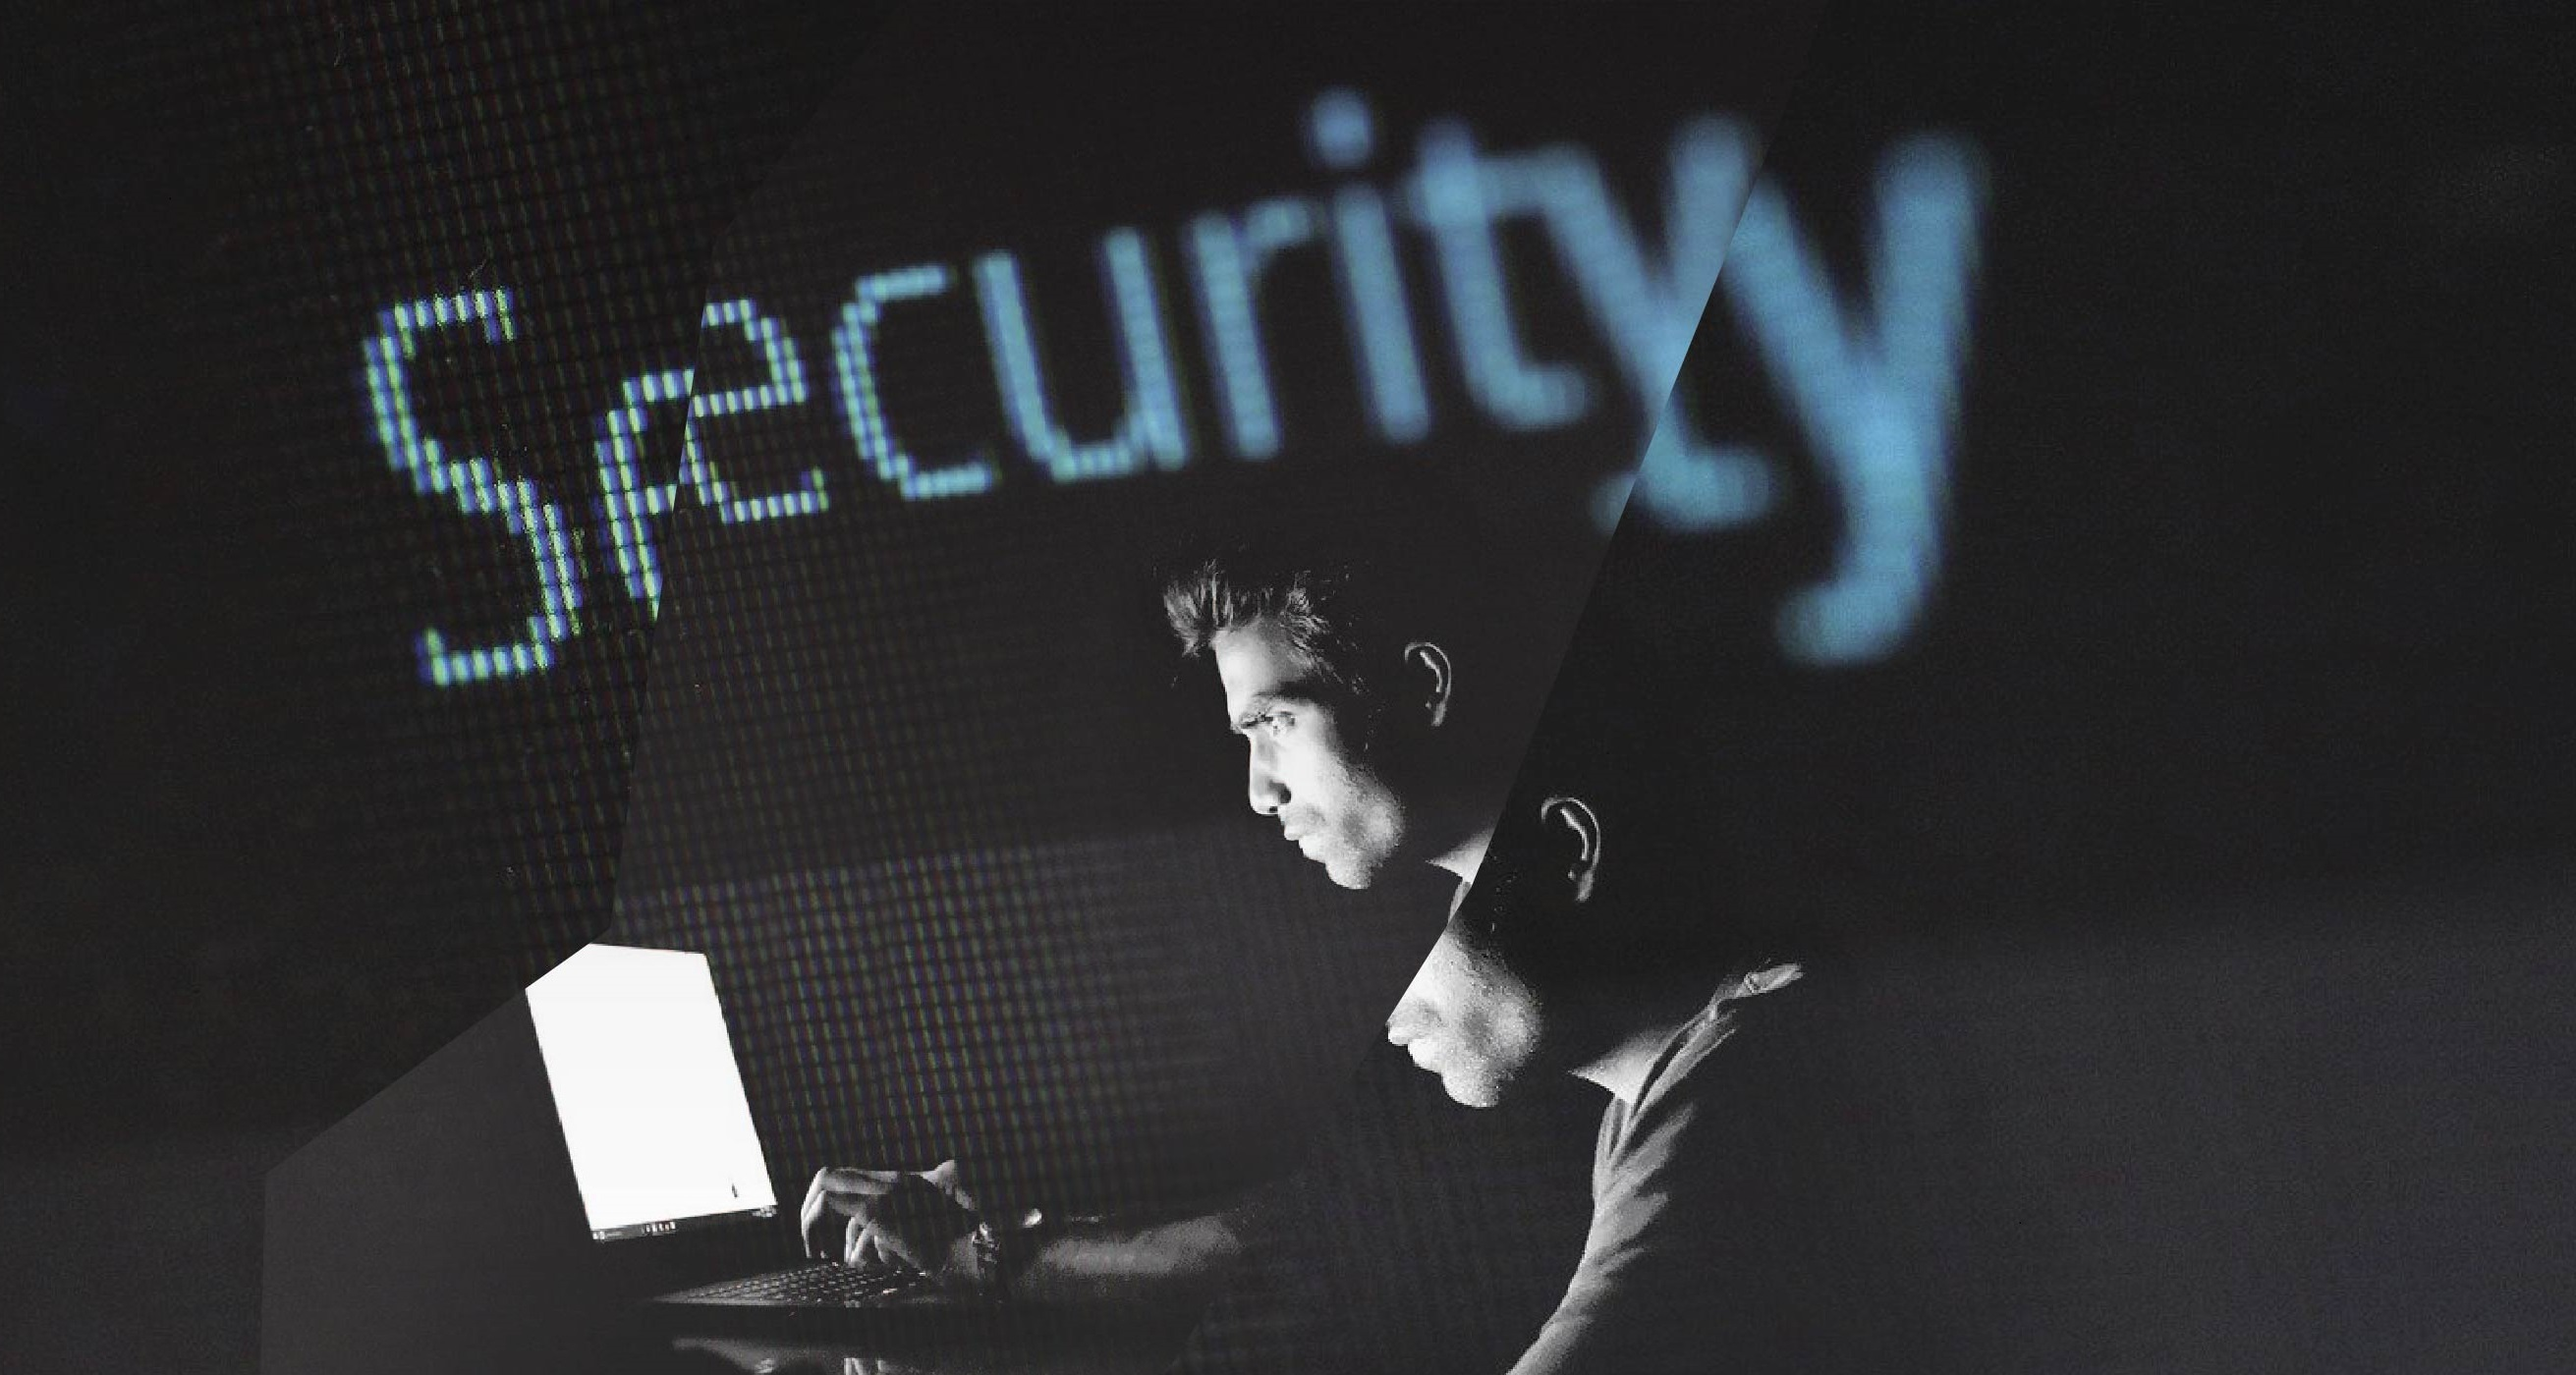
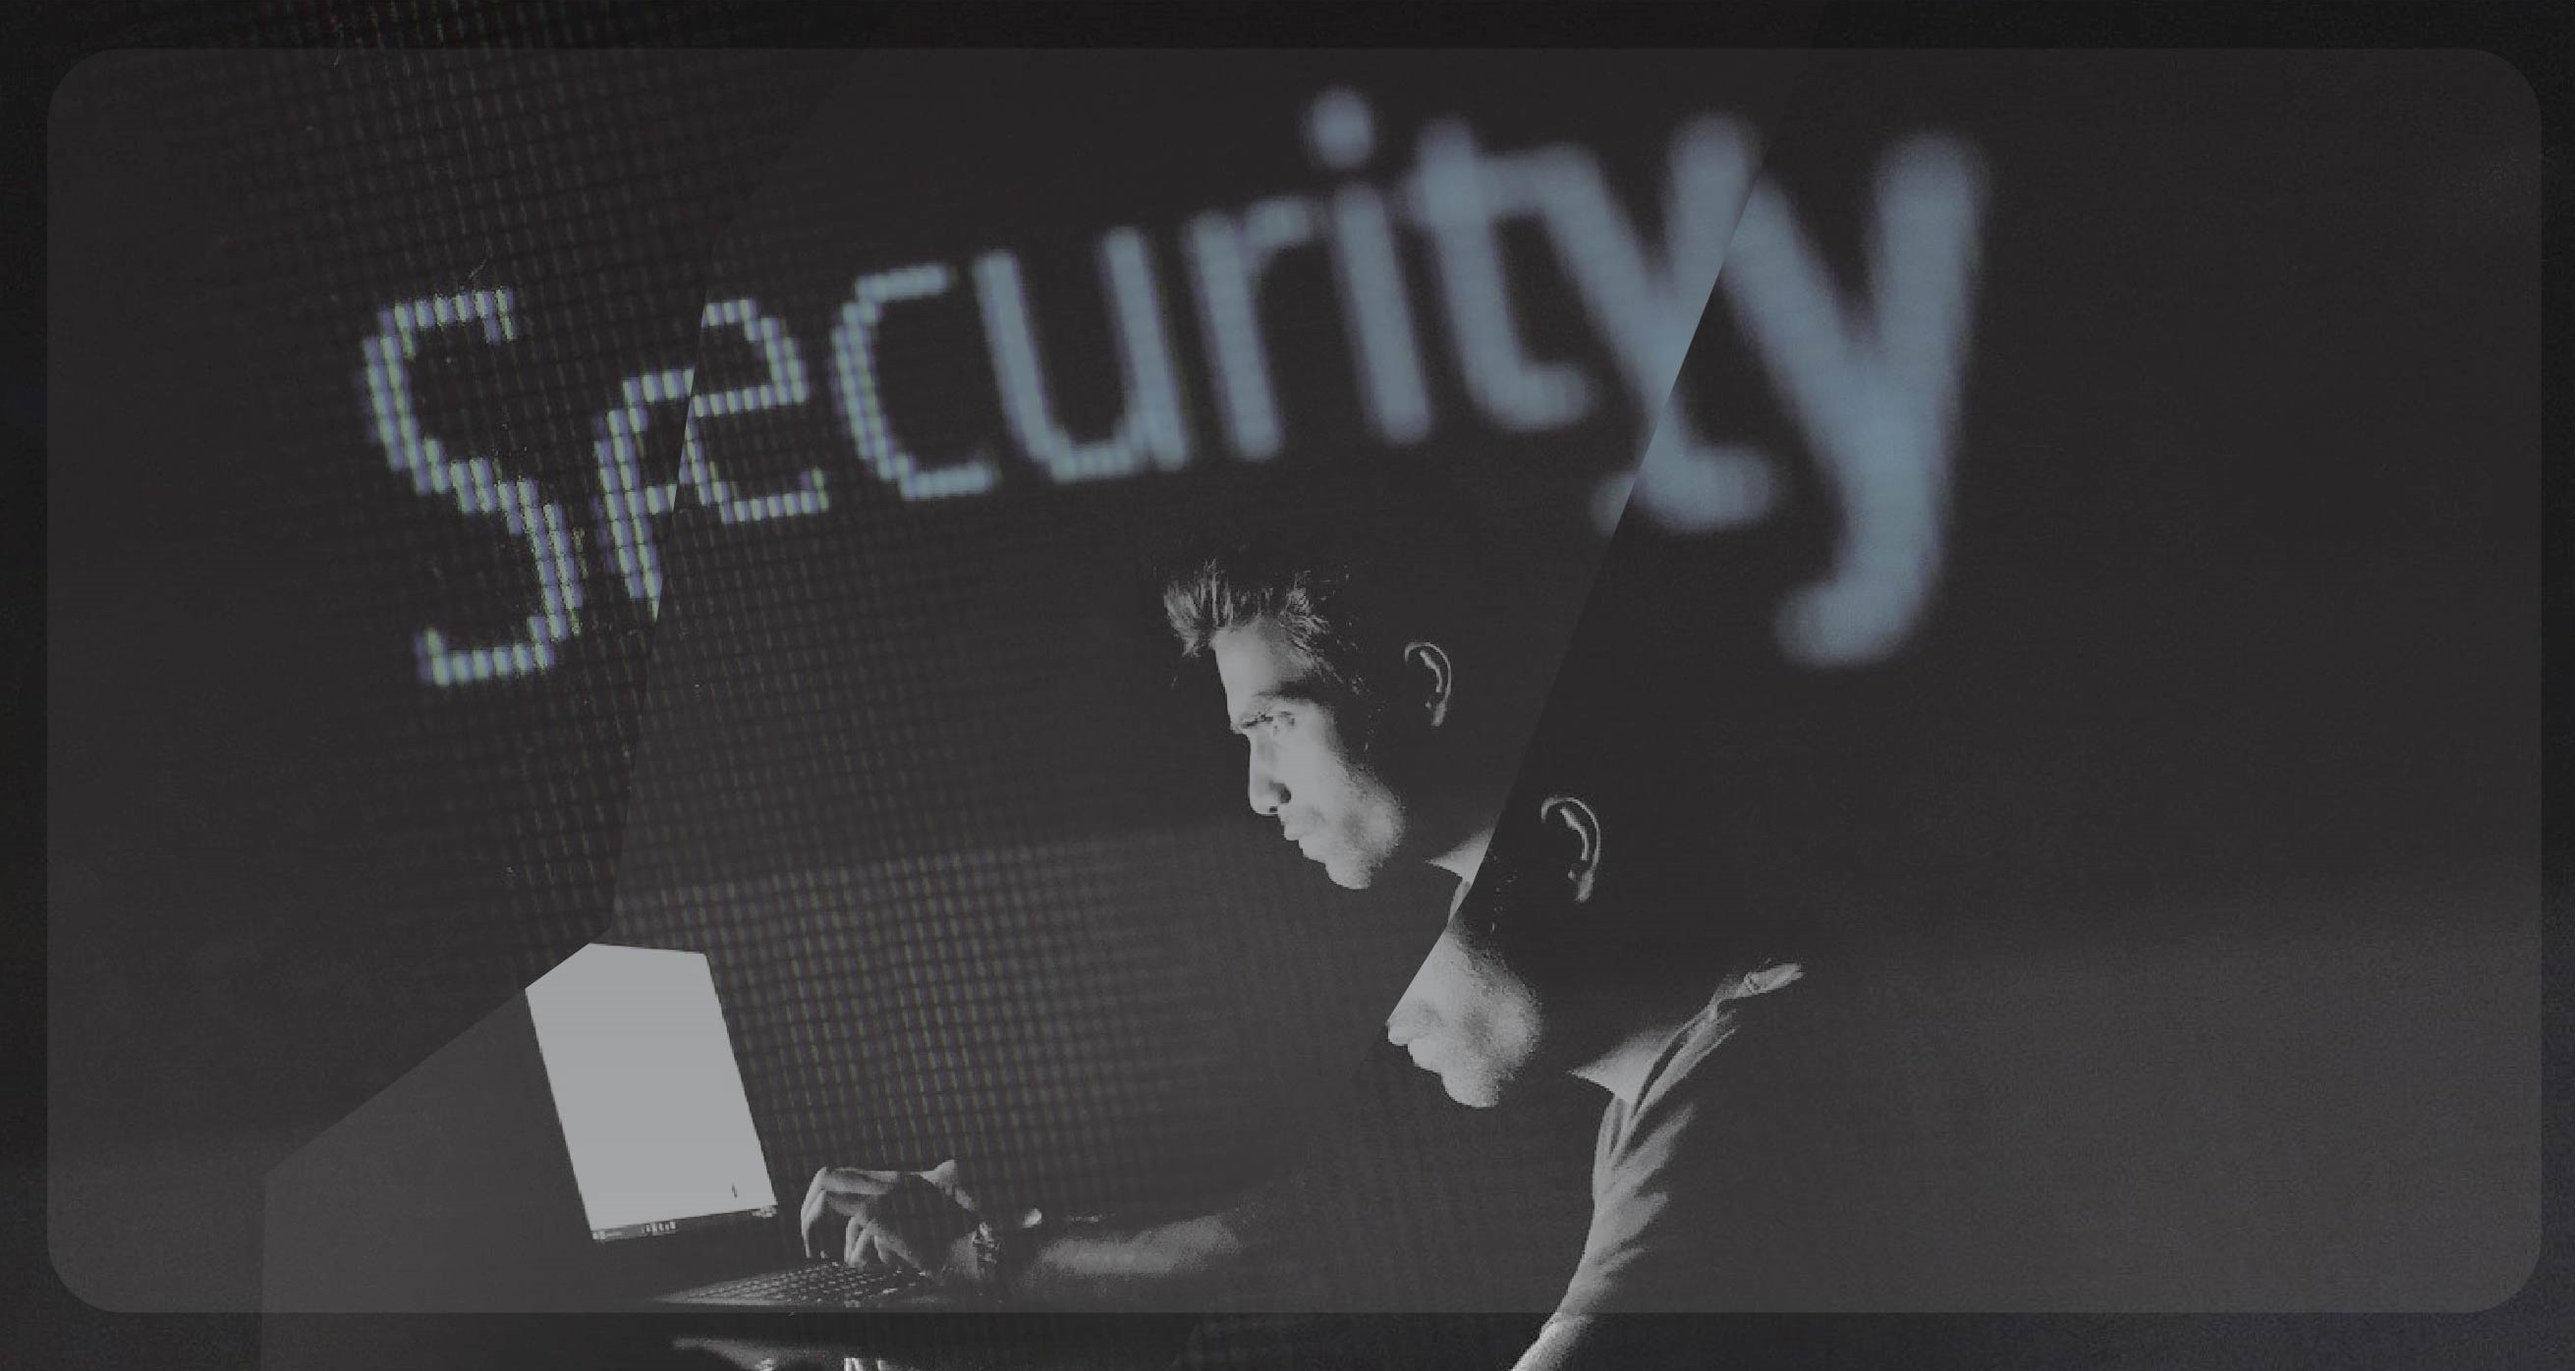
color switch

diff --git a/src/Resources/Theme/theme.js b/src/Resources/Theme/theme.js
@@ -1,5 +1,5 @@
 import { createTheme } from '@mui/material/styles';
-import darkBackgroundHome from "../../Resources/Images/darkBackgroundHome1.jpg"
+import darkBackgroundHome from "../../Resources/Images/darkBackgroundHome.jpg"
 import lightBackgroundHome from "../../Resources/Images/lightBackgroundHome.jpg"
 import navBarDark from "../../Resources/Images/logoDark.png"
 import navBarLight from "../../Resources/Images/logoLight.png"
@@ -7,8 +7,8 @@ import navBarLight from "../../Resources/Images/logoLight.png"
 export const darkTheme = createTheme({
     colors: {
         primaryColor: 'rgba(92, 44, 95, 1)',
-        secondaryColor: 'rgba(7, 17, 42, 1)',
-        primaryAccentsColor: 'rgba(129, 110, 27, 1)',
+        secondaryColor: 'rgba(35, 35, 35, 1)',
+        primaryAccentsColor: 'rgba(90, 90, 117, 1)',
         secondaryAccentsColor: 'rgba(105, 32, 32, 1)',
         textColor: 'white',
         titleColor: 'rgba(174, 109, 210, 1)',
@@ -29,8 +29,8 @@ export const darkTheme = createTheme({
 export const lightTheme = createTheme({
     colors: {
         primaryColor: 'rgba(79, 115, 108, 1)',
-        secondaryColor: 'rgba(128, 103, 28, 1)',
-        primaryAccentsColor: 'rgba(37, 90, 99, 1)',
+        secondaryColor: 'rgba(119, 152, 121, 1)',
+        primaryAccentsColor: 'rgba(45, 45, 45, 1)',
         secondaryAccentsColor: 'rgba(150, 223, 223, 1)',
         textColor: 'black',
         titleColor: 'rgba(56, 17, 74, 1)',
